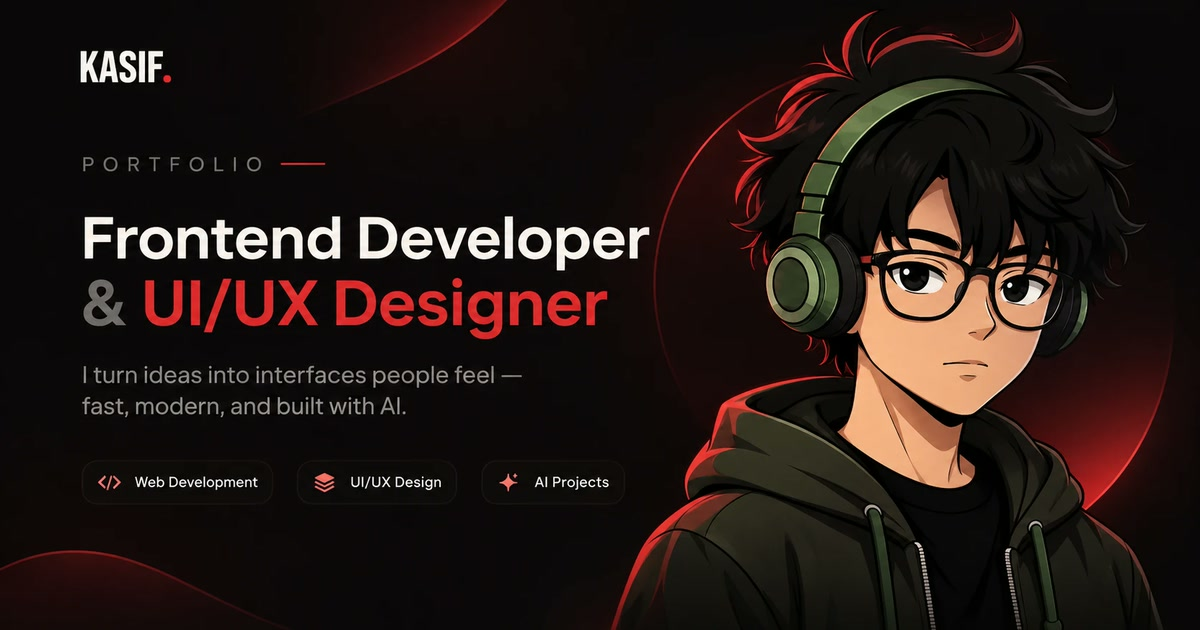
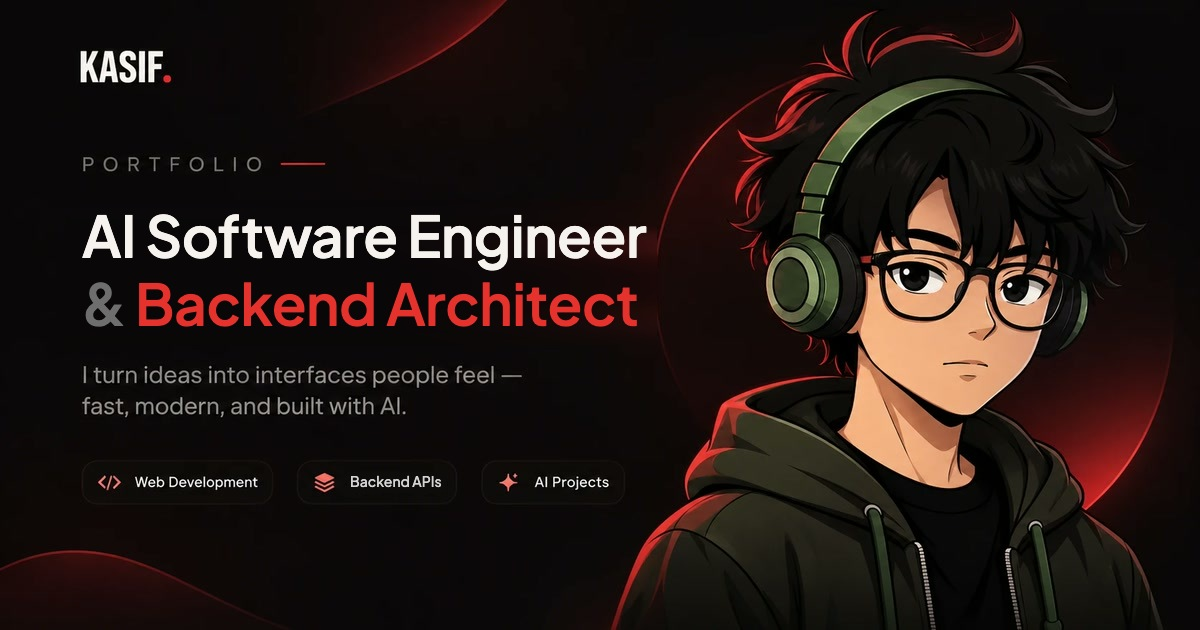
feat: retitle the site to AI Software Engineer & Backend Architect
Updates the hero, footer roles, journey entry, search metadata, structured
data, web manifest and the headline baked into the Open Graph image.

Changed region(s): [[0.0617, 0.3317, 0.555, 0.5429], [0.2775, 0.754, 0.37, 0.7841]]

diff --git a/app/layout.tsx b/app/layout.tsx
@@ -7,10 +7,10 @@ import "./globals.css";
 
 const { identity, about, contact, work, siteUrl } = portfolioContent;
 const siteOrigin = siteUrl.replace(/\/$/, "");
-const title = "Md Kasif Uddin (KASIF) — Frontend Developer & UI/UX Designer";
-const description = "Md Kasif Uddin (KASIF) is a freelance frontend developer and UI/UX designer from India building fast, modern web apps, macOS tools and AI projects.";
+const title = "Md Kasif Uddin (KASIF) — AI Software Engineer & Backend Architect";
+const description = "Md Kasif Uddin (KASIF) is a freelance AI software engineer and backend architect from India building AI-powered products, full-stack web apps and macOS tools.";
 const socialDescription = "I turn ideas into interfaces people feel: fast, modern, and built with AI. Explore projects by Md Kasif Uddin.";
-const socialImage = { url: "/og-image.jpg", width: 1200, height: 630, type: "image/jpeg", alt: "KASIF portfolio: Frontend Developer & UI/UX Designer" };
+const socialImage = { url: "/og-image.jpg", width: 1200, height: 630, type: "image/jpeg", alt: "KASIF portfolio: AI Software Engineer & Backend Architect" };
 const skills = about.toolkitGroups.flatMap((group) => group.skills);
 
 export const metadata: Metadata = {
@@ -23,9 +23,9 @@ export const metadata: Metadata = {
   publisher: identity.name,
   category: "technology",
   keywords: [
-    "Md Kasif Uddin", "Kasif", "KASIF portfolio", "frontend developer", "UI/UX designer", "freelance web developer",
-    "frontend developer India", "React developer", "Next.js developer", "TypeScript", "Three.js", "AI projects",
-    "web development", "UI/UX design", "macOS app developer", "tech content creator", "Chandigarh University"
+    "Md Kasif Uddin", "Kasif", "KASIF portfolio", "AI software engineer", "backend architect", "freelance software engineer",
+    "AI engineer India", "backend developer", "Node.js developer", "Next.js developer", "TypeScript", "Python", "AI projects",
+    "AI engineering", "backend architecture", "macOS app developer", "tech content creator", "Chandigarh University"
   ],
   alternates: { canonical: "/" },
   robots: { index: true, follow: true, googleBot: { index: true, follow: true, "max-image-preview": "large", "max-snippet": -1, "max-video-preview": -1 } },
@@ -73,12 +73,12 @@ const structuredData = {
       url: `${siteOrigin}/`,
       image: `${siteOrigin}/hero-cutout.png`,
       email: `mailto:${contact.email}`,
-      jobTitle: "Frontend Developer and UI/UX Designer",
+      jobTitle: "AI Software Engineer and Backend Architect",
       description: about.bioLines.join(" "),
       address: { "@type": "PostalAddress", addressCountry: "IN" },
       alumniOf: { "@type": "CollegeOrUniversity", name: "Chandigarh University" },
       award: "1st Runner-Up, InnoSprint 2.0 hackathon (D4 Community × Google for Developers), 2026",
-      knowsAbout: ["Frontend development", "UI/UX design", "Web development", "AI applications", ...skills],
+      knowsAbout: ["AI engineering", "Backend architecture", "Software engineering", "AI applications", ...skills],
       sameAs: contact.socials.map((social) => social.href)
     },
     {

diff --git a/data/content.ts b/data/content.ts
@@ -7,19 +7,19 @@ export const portfolioContent = {
   identity: {
     name: "Md Kasif Uddin",
     displayName: "KASIF",
-    roles: ["Freelance Frontend Developer", "UI/UX Designer", "Tech Content Creator"]
+    roles: ["AI Software Engineer", "Backend Architect", "Tech Content Creator"]
   },
   hero: {
     backgroundWord: "PORTFOLIO",
-    eyebrow: ["FRONTEND DEV / UI-UX / TECH CREATOR", "VISUAL STORYTELLER"],
+    eyebrow: ["AI ENGINEER / BACKEND ARCHITECT / TECH CREATOR", "VISUAL STORYTELLER"],
     availability: "AVAILABLE FOR COLLABORATION",
     greeting: "Hello, I'm",
-    disciplines: ["FRONTEND DEV &", "UI/UX DESIGNER"],
+    disciplines: ["AI SOFTWARE ENGINEER &", "BACKEND ARCHITECT"],
     introduction: "I turn ideas into interfaces people feel. From the first wireframe to the last pixel, shipped fast, built with AI.",
     workCta: "See my work",
     location: "INDIA",
     reelLabel: "PLAY REEL",
-    reelMetadata: "UI / UX · WEB",
+    reelMetadata: "AI · BACKEND",
     reelEmbedUrl: undefined,
     reelModalKicker: "KASIF / SHOWREEL",
     reelModalTitle: "A little more in motion",
@@ -235,10 +235,10 @@ export const portfolioContent = {
   journey: {
     eyebrow: "03 / THE JOURNEY",
     title: "KEEP MOVING. KEEP BUILDING",
-    activeRole: "Freelance Frontend Dev & UI/UX Designer",
+    activeRole: "Freelance AI Software Engineer & Backend Architect",
     activePeriod: "2025 — NOW",
-    activeSubtitle: "Freelance · Frontend development & product design",
-    activeDescription: "Designing and building interfaces from first idea to final detail.\nCombining frontend craft with a thoughtful user experience.\nTurning rough concepts into products that feel alive.",
+    activeSubtitle: "Freelance · AI software & backend systems",
+    activeDescription: "Designing and building AI-powered software from first idea to production.\nPairing applied AI with solid backend architecture.\nTurning rough concepts into products that feel alive.",
     roles: [
       { title: "Tech Content Creator on X", period: "2026", subtitle: "@md_kasif_uddin · AI, dev tools and building in public" },
       { title: "Brand collaborations", period: "2026", subtitle: "20+ collaborations with AI and tech brands" },

diff --git a/components/hero-section.tsx b/components/hero-section.tsx
@@ -23,9 +23,9 @@ const providedHeroStats: Array<{ value: string; label: string }> = hero.stats.fl
 const heroStats = providedHeroStats.length >= 3
   ? providedHeroStats
   : [...providedHeroStats, { value: String(portfolioContent.work.projects.length), label: "PROJECTS" }];
-const marqueeCopy = "FRONTEND · UI/UX · AI PRODUCTS · TECH CONTENT · SHIPPED FAST";
+const marqueeCopy = "AI ENGINEERING · BACKEND SYSTEMS · AI PRODUCTS · TECH CONTENT · SHIPPED FAST";
 const hudTicks = Array.from({ length: 48 }, (_, index) => index);
-const heroChips = ["React", "Next.js", "UI/UX", "AI"];
+const heroChips = ["React", "Next.js", "Backend", "AI"];
 
 function AnimatedStat({
   value,

diff --git a/app/manifest.ts b/app/manifest.ts
@@ -6,7 +6,7 @@ export default function manifest(): MetadataRoute.Manifest {
   return {
     name: "KASIF — Md Kasif Uddin Portfolio",
     short_name: "KASIF",
-    description: "Frontend developer and UI/UX designer building fast, modern web apps and AI projects.",
+    description: "AI software engineer and backend architect building AI-powered products and full-stack web apps.",
     start_url: "/",
     display: "standalone",
     background_color: "#05050A",
